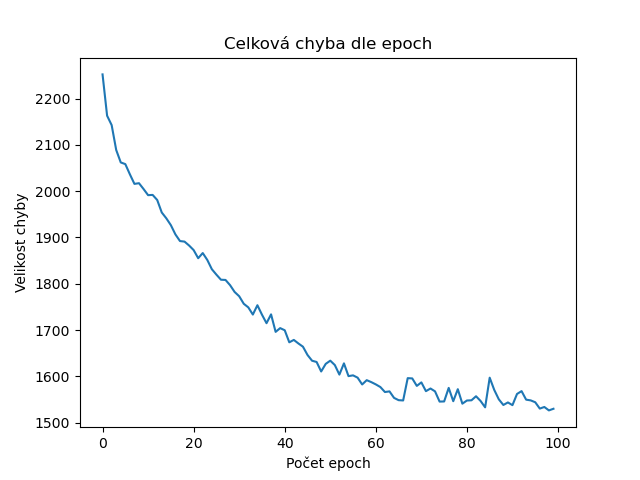
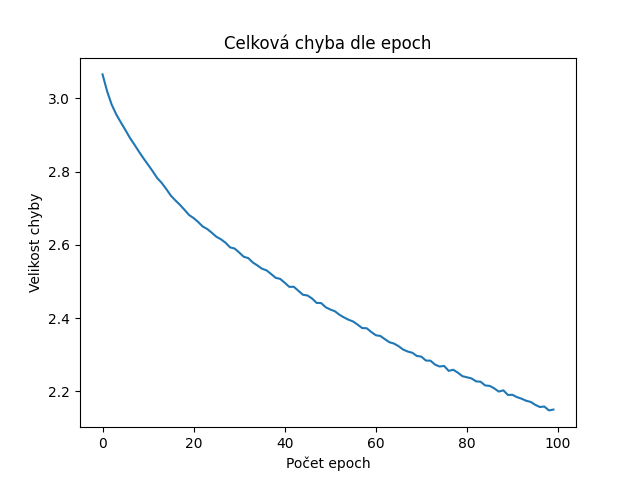
some funny stuff

diff --git a/main.py b/main.py
@@ -51,22 +51,21 @@ def print_menu():
     pass
 
 
-def print_choose_task(with_help=True):
+def print_choose_task():
     print("Vyberte jednu z následujících úloh:")
     print("  m) MNIST")
     print("  o) Výpočet modu (nejčastější hodnoty)")
     print("  x) XOR problém")
     print("  c) Vlastní problém")
-    if with_help:
-        print("  h) Jak na formát vlastního formátu?")
     print()
 
 
 def help_choose():
-    print("\nNápověda: V případě volby vlastního formátu musíte mít alespoň jeden soubor se vstupy (pokud trénovací data == testovací data) a jeden s výstupy.")
+    print("V případě volby vlastního formátu musíte mít alespoň jeden soubor se vstupy (pokud trénovací data == testovací data) a jeden s výstupy.")
     print("Soubor se vstupy musí obsahovat posloupnost desetinných čísel od -1.0 do 1.0 oddělených mezerami, kde řádek znamená jeden vstupní vektor.")
-    print("Soubor s výstupy musí obsahovat posloupnost desetinných čísel od 0.0 do 1.0 (příslušnost) oddělených mezerami, kde řádek symbolizuje vektor výstupu pro vstup.")
-    print("První řádek ve vstupním souboru musí obsahovat vstup pro výsledek na prvním řádku výstupu.")
+    print("Soubor s výstupy musí obsahovat posloupnost desetinných čísel od 0.0 do 1.0 (příslušnosti) oddělených mezerami, kde řádek symbolizuje vektor výstupu pro vstup.")
+    print("Desátý řádek ve vstupním souboru musí obsahovat vstup pro výsledek na desátém řádku výstupu.")
+    print("Záznamy všech musí mít stejné délky. Záznamy všech výstupů rovněž. Kontrola nebude z důvodu náročnosti prováděna.")
     print()
 
 
@@ -95,7 +94,7 @@ def generate_majority():
         if input_size_l != current_network.input_size or output_size_l != current_network.output_size:
             print(
                 "Některá z hodnot vstupů či výstupů se neshoduje se současnou neuronovou sítí.")
-            exitor = input("Přejete si načtenou síť zahodit?")
+            exitor = input("Přejete si načtenou síť zahodit? Vaše volba (y, Y):")
             if len(exitor) > 0 and exitor[0] in ["Y", "y", "a", "A"]:
                 exitor = True
             else:
@@ -113,6 +112,10 @@ def generate_majority():
     test_x, test_y = tools.generate_majority(samples_number=test_size, input_size=input_size,
                                              output_size=output_size)
     global task
+    train_x = train_x / float(output_size)
+    test_x = test_x / float(output_size)
+    train_x -= 0.5
+    test_x -= 0.5
     task = "Majority"
 
 
@@ -126,14 +129,58 @@ def load_mnist():
     test_x = test_x.reshape(test_x.shape[0], 1, 28*28)
     input_size = 784
     output_size = 10
+    train_x = train_x.astype('float32')
+    train_x = train_x / 255.0
+    train_x -= 0.5
+    test_x = test_x.astype('float32')
+    test_x = test_x / 255.0
+    test_x -= 0.5
 
+def load_custom_task():
+    global train_x, train_y, test_x, test_y
+    global input_size, output_size
+    clear_screen()
+    help_choose()
+    print()
+    f_trainx = input("Soubor s trénovacími vstupy: ")
+    if not os.path.isfile(f_trainx):
+        print("Zadaný soubor se nezdařilo načíst")
+        input("\nStiskněte enter pro pokračování...")
+        return
+    f_trainy = input("Soubor s trénovacími výstupy: ")
+    if not os.path.isfile(f_trainy):
+        print("Zadaný soubor se nezdařilo načíst")
+        input("\nStiskněte enter pro pokračování...")
+        return
+    f_testx = input("Soubor s testovacími vstupy: ")
+    if not os.path.isfile(f_testx):
+        print("Zadaný soubor se nezdařilo načíst")
+        input("\nStiskněte enter pro pokračování...")
+        return
+    f_testy = input("Soubor s testovacími výstupy: ")
+    if not os.path.isfile(f_testy):
+        print("Zadaný soubor se nezdařilo načíst")
+        input("\nStiskněte enter pro pokračování...")
+        return
+    try:
+        train_x, train_y, test_x, test_y = tools.load_custom_task(f_trainx, f_trainy, f_testx, f_testy)
+    except KeyboardInterrupt:
+        print("Program byl násilně ukončen při čtení souborů!")
+        exit()
+    except:
+        print("Soubory nejsou správného formátu.")
+        input("\nStiskněte enter pro pokračování...")
+        return
+    input_size = len(train_x[0][0])
+    output_size = len(train_y[0][0])
+    input("\nStiskněte enter pro pokračování...")
 
 def choose_task():
-    print_choose_task(True)
+    print_choose_task()
     text = input("Vaše volba: ")
     if len(text) <= 0 or text[0] in ["h", "H"]:
         clear_screen()
-        print_choose_task(False)
+        print_choose_task()
         help_choose()
         text = input("Vaše volba: ")
     if len(text) <= 0 or text[0] not in ["m", "M", "o", "O", "x", "X", "c", "C"]:
@@ -142,9 +189,10 @@ def choose_task():
         return
     elif text[0] in ["m", "M"]:
         load_mnist()
-        pass
     elif text[0] in ["o", "O"]:
         generate_majority()
+    elif text[0] in ["c", "C"]:
+        load_custom_task()
 
 
 def load_network():
@@ -210,6 +258,7 @@ def learn():
     except:
         print("Zadána ilegální hodnota některého parametru.")
         input("\nStiskněte enter pro pokračování...")
+        return
     if len(split) > 0 and split[0] in ["Y", "y", "a", "A"]:
         split = True
     else:
@@ -223,6 +272,7 @@ def learn():
         except:
             print("Zadána ilegální hodnota některého parametru.")
             input("\nStiskněte enter pro pokračování...")
+            return
     else:
         how_split = 0
         metapochs = 0
@@ -237,15 +287,14 @@ def predict():
         print("Musí být načtena jak testovací data, tak neuronová síť.")
         input("\nStiskněte enter pro pokračování...")
         return
-    pom_test = test_x.astype('float32')
-    pom_test = test_x / float(np.max(test_x))
-    pom_test -= 0.5
-    count_success(current_network, pom_test, test_y)
+    count_success(current_network, test_x, test_y)
     input("\nStiskněte enter pro pokračování...")
 
 
 def selection(x):
-    if len(x) == 0 or x[0] in ["q", "Q"]:
+    if len(x) == 0:
+        return 0
+    elif x[0] in ["q", "Q"]:
         return 1
     elif x[0] in ["l", "L"]:
         load_network()

diff --git a/tools.py b/tools.py
@@ -15,13 +15,45 @@ from functions import count_success
 
 np.seterr(all='raise')
 
+def load_custom_task(ftrain_x, ftrain_y, ftest_x, ftest_y):
+    tr_x = open(ftrain_x, "r")
+    tr_y = open(ftrain_y, "r")
+    te_x = open(ftest_x, "r")
+    te_y = open(ftest_y, "r")
+    train_x = []
+    train_y = []
+    test_x = []
+    test_y = []
+    linesx = tr_x.readlines()
+    linesy = tr_y.readlines()
+    if len(linesx) != len(linesy):
+        assert()
+    for trainx, trainy in zip(linesx, linesy):
+        linex = np.array([trainx.split(" ")]).astype(np.float)
+        liney = np.array([trainy.split(" ")]).astype(np.float)
+        train_x.append(linex)
+        train_y.append(liney)
+    linesx = te_x.readlines()
+    linesy = te_y.readlines()
+    if len(linesx) != len(linesy):
+        assert()
+    for testx, testy in zip(linesx, linesy):
+        linex = np.array([testx.split(" ")]).astype(np.float)
+        liney = np.array([testy.split(" ")]).astype(np.float)
+        test_x.append(linex)
+        test_y.append(liney)
+    tr_x.close()
+    tr_y.close()
+    te_x.close()
+    te_y.close()
+    train_x = np.array(train_x)
+    train_y = np.array(train_y)
+    test_x = np.array(test_x)
+    test_y = np.array(test_y)
+    return train_x, train_y, test_x, test_y
+
 def learn(task, train_x, train_y, learning_rate : float, image : str, network: NNET, 
           iterations, how_often_error, split = False, how_split = 1, metapochs = 1):
-    max_val = np.max(train_x)
-    if task in ["Majority", "MNIST"]:
-        train_x = train_x.astype('float32')
-        train_x = train_x / float(max_val)
-        train_x -= 0.5
     success = False
     while success != True:
         try:
